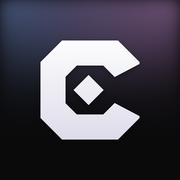
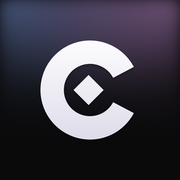
Round C mark, bare C in the landing hero
The mark is now a ring cut open by a wedge (sharp radial ends) instead of
the faceted octagon, drawn at 8x supersampling with a tighter shadow so the
edges stay crisp. The landing hero drops the tile: it paints the new
transparent public/mark.png in the text colour via BrandGlyph. Every brand
file moves to ?v=8.

diff --git a/src/components/__tests__/brandMark.test.tsx b/src/components/__tests__/brandMark.test.tsx
@@ -1,12 +1,12 @@
 // The logo is /logo.png; if it fails to load, BrandLogo draws the same mark inline. Both come from
-// scripts/make-icons.py: the faceted C (outer octagon, inner octagon and right-hand wedge masked out)
-// with the diamond control point inside it.
+// scripts/make-icons.py: the round C (outer circle, inner circle and right-hand wedge masked out)
+// with the diamond control point inside it. /mark.png is the same mark bare, for BrandGlyph.
 import { readdirSync, readFileSync } from 'node:fs';
 import { join } from 'node:path';
 import { fileURLToPath } from 'node:url';
 import { describe, it, expect, afterEach } from 'vitest';
 import { render, screen, fireEvent, cleanup } from '@testing-library/react';
-import { BrandLogo, LOGO_SRC } from '../BrandMark';
+import { BrandGlyph, BrandLogo, LOGO_SRC, MARK_SRC } from '../BrandMark';
 
 afterEach(cleanup);
 
@@ -45,37 +45,47 @@ describe('BrandLogo', () => {
     const files = (readdirSync(root, { recursive: true }) as string[])
       .filter((f) => /\.tsx?$/.test(f) && !/__tests__/.test(f) && !/BrandMark\.tsx$/.test(f));
     // Any mention, versioned or not: an unversioned copy would bypass the cache-buster entirely.
-    const offenders = files.filter((f) => /logo\.png/.test(readFileSync(join(root, f), 'utf8')));
+    const offenders = files.filter((f) => /(logo|mark)\.png/.test(readFileSync(join(root, f), 'utf8')));
     expect(offenders).toEqual([]);
   });
 
-  it('falls back to the faceted C: outer octagon, inner octagon and mouth wedge', () => {
+  it('falls back to the round C: outer circle, inner circle and mouth wedge', () => {
     const mask = renderFallback().querySelector('mask')!;
-    const [outer, inner, mouth] = [...mask.querySelectorAll('polygon')];
-    expect(mask.querySelectorAll('polygon')).toHaveLength(3);
-    expect([outer, inner, mouth].map((p) => points(p).length)).toEqual([8, 8, 3]);
+    const [outer, inner] = [...mask.querySelectorAll('circle')];
+    const mouth = mask.querySelector('polygon')!;
+    expect(mask.querySelectorAll('circle')).toHaveLength(2);
+    expect(mask.querySelectorAll('polygon')).toHaveLength(1);
     expect([outer, inner, mouth].map((p) => p.getAttribute('fill'))).toEqual(['#fff', '#000', '#000']);
-    // The inner octagon sits inside the outer one, so the C has a stroke all round.
-    for (const p of points(inner)) expect(insideConvex(p, points(outer))).toBe(true);
-    // The mouth starts in the bowl and cuts right through the C's whole right-hand side, so it is open.
+    const c = (el: Element) => ['cx', 'cy', 'r'].map((k) => Number(el.getAttribute(k)));
+    const [ox, oy, R] = c(outer), [ix, iy, r] = c(inner);
+    // Concentric, with a real stroke all round.
+    expect([ix, iy]).toEqual([ox, oy]);
+    expect(r).toBeGreaterThan(0);
+    expect(R - r).toBeGreaterThan(R * 0.3);
+    // The mouth starts in the bowl and cuts right through the ring's right-hand side, so it is open.
     const [apex, ...far] = points(mouth);
-    expect(insideConvex(apex, points(inner))).toBe(true);
-    const o = points(outer), right = Math.max(...o.map(([x]) => x));
-    const edge = o.filter(([x]) => x === right).map(([, y]) => y);
-    for (const [x] of far) expect(x).toBeGreaterThanOrEqual(right);
-    expect(Math.min(...far.map(([, y]) => y))).toBeLessThan(Math.min(...edge));
-    expect(Math.max(...far.map(([, y]) => y))).toBeGreaterThan(Math.max(...edge));
+    expect(Math.hypot(apex[0] - ix, apex[1] - iy)).toBeLessThan(r);
+    for (const [x] of far) expect(x).toBeGreaterThanOrEqual(ox + R);
   });
 
   it('puts the diamond control point inside the C', () => {
     const svg = renderFallback();
-    const inner = points(svg.querySelectorAll('mask polygon')[1]);
+    const inner = svg.querySelectorAll('mask circle')[1];
+    const [cx, cy, r] = ['cx', 'cy', 'r'].map((k) => Number(inner.getAttribute(k)));
     const diamond = points(svg.querySelector(':scope > g > polygon')!);
     expect(diamond).toHaveLength(4);
-    // Every corner inside the inner octagon itself (not just its bounding box), so it never touches the stroke.
-    for (const p of diamond) expect(insideConvex(p, inner)).toBe(true);
-    // No round shapes left from the old mark.
-    expect(svg.querySelector('circle, path')).toBeNull();
+    // Every corner inside the bowl, so it never touches the stroke.
+    for (const [x, y] of diamond) expect(Math.hypot(x - cx, y - cy)).toBeLessThan(r);
+  });
+});
+
+describe('BrandGlyph', () => {
+  it('paints the bare mark.png in the text colour, hidden from screen readers', () => {
+    const { container } = render(<BrandGlyph className="size-16" />);
+    const el = container.querySelector('[data-brand-glyph]') as HTMLElement;
+    expect(el.getAttribute('aria-hidden')).toBe('true');
+    expect(el.className).toContain('bg-current');
+    expect(el.style.maskImage || el.style.getPropertyValue('-webkit-mask-image')).toContain(MARK_SRC);
   });
 });
 
@@ -97,8 +107,9 @@ describe('brand cache-busters', () => {
     iconVersion();
   });
 
-  it('serves the in-app logo at the same version', () => {
+  it('serves the in-app logo and the bare mark at the same version', () => {
     expect(LOGO_SRC).toBe(`/logo.png?v=${iconVersion()}`);
+    expect(MARK_SRC).toBe(`/mark.png?v=${iconVersion()}`);
   });
 
   const pages = ['../../../index.html', '../../../server/predict/how-it-works.html'];

diff --git a/src/components/BrandMark.tsx b/src/components/BrandMark.tsx
@@ -2,13 +2,15 @@ import { useId, useState } from 'react';
 import { cn } from './ui';
 
 /** The logo's URL. Bump the version whenever scripts/make-icons.py changes the mark; every logo <img> uses this. */
-export const LOGO_SRC = '/logo.png?v=7';
+export const LOGO_SRC = '/logo.png?v=8';
+/** The bare mark (white on transparent, no tile), same version as the logo. */
+export const MARK_SRC = '/mark.png?v=8';
 
 /**
  * BrandMark — the Control Point logo slot.
  *
- * The logo is `public/logo.png` (Control Scout's v8 icon family: a faceted,
- * sharp-cornered "C" with the control point, a diamond, inside it; soft white on
+ * The logo is `public/logo.png` (Control Scout's v8 icon family: a round "C" cut
+ * open by a crisp wedge, with the control point, a diamond, inside it; soft white on
  * the near-black tile with the slate-to-mauve wash; drawn by scripts/make-icons.py).
  * If it fails to load, the same mark renders inline as SVG.
  *
@@ -31,9 +33,9 @@ export function BetaBadge({ className }: { className?: string }) {
   );
 }
 
-/** The mark alone (the faceted C and its diamond point) filling its box, in the icon's soft-white ink.
- *  Polygons from scripts/make-icons.py (mark_polys), scaled to the 100-unit box: the C is the outer
- *  octagon with the inner octagon and the right-hand wedge masked out. */
+/** The mark alone (the round C and its diamond point) filling its box, in the icon's soft-white ink.
+ *  Shapes from scripts/make-icons.py (mark_shapes), scaled to the 100-unit box: the C is the outer
+ *  circle with the inner circle and the right-hand wedge masked out. */
 function MarkSvg() {
   const id = useId().replace(/:/g, '');
   const ink = `cp-ink-${id}`, cut = `cp-cut-${id}`;
@@ -45,8 +47,8 @@ function MarkSvg() {
           <stop offset="1" stopColor="#dcd9e8" />
         </linearGradient>
         <mask id={cut} maskUnits="userSpaceOnUse" x="0" y="0" width="100" height="100">
-          <polygon points="34.45,22.49 65.55,22.49 77.51,34.45 77.51,65.55 65.55,77.51 34.45,77.51 22.49,65.55 22.49,34.45" fill="#fff" />
-          <polygon points="42.66,36.44 57.34,36.44 63.56,42.66 63.56,57.34 57.34,63.56 42.66,63.56 36.44,57.34 36.44,42.66" fill="#000" />
+          <circle cx="50" cy="50" r="27.51" fill="#fff" />
+          <circle cx="50" cy="50" r="14.51" fill="#000" />
           <polygon points="50,50 100,23.68 100,76.32" fill="#000" />
         </mask>
       </defs>
@@ -83,6 +85,20 @@ function LogoImage({ className, decorative = false }: { className?: string; deco
       alt={decorative ? '' : 'Control Point logo'}
       onError={() => setMissing(true)}
       className={cn('object-contain flex-shrink-0', className)}
+    />
+  );
+}
+
+/** The bare C (public/mark.png, no tile), painted in the current text colour through a CSS mask
+ *  so it reads in both themes. Decorative: callers put it next to the name. */
+export function BrandGlyph({ className }: { className?: string }) {
+  const url = `url(${MARK_SRC})`;
+  return (
+    <span
+      aria-hidden="true"
+      data-brand-glyph=""
+      className={cn('inline-block flex-shrink-0 bg-current', className)}
+      style={{ maskImage: url, WebkitMaskImage: url, maskSize: 'contain', WebkitMaskSize: 'contain', maskRepeat: 'no-repeat', WebkitMaskRepeat: 'no-repeat', maskPosition: 'center', WebkitMaskPosition: 'center' }}
     />
   );
 }

diff --git a/index.html b/index.html
@@ -5,7 +5,7 @@
     <meta name="viewport" content="width=device-width, initial-scale=1.0" />
     <title>Control Point — AI-powered mission control for your robotics team</title>
     <meta name="description" content="Control Point is AI-powered mission control for your robotics team: roster, attendance, tasks, calendar, budget, and team chat — one fast, focused workspace that keeps your whole season on track." />
-    <link rel="icon" type="image/png" href="/favicon.png?v=7">
+    <link rel="icon" type="image/png" href="/favicon.png?v=8">
     <!-- Link embeds: Discord, iMessage, Twitter/X, etc. -->
     <meta property="og:type" content="website" />
     <meta property="og:site_name" content="Control Point" />
@@ -13,18 +13,18 @@
     <meta property="og:description" content="Roster, attendance, tasks, calendar, budget, and team chat — one fast, focused workspace that keeps your whole season on track." />
     <meta property="og:url" content="https://tryctrlpoint.org/" />
     <link rel="canonical" href="https://tryctrlpoint.org/" />
-    <meta property="og:image" content="https://tryctrlpoint.org/og-image.jpg?v=7" />
+    <meta property="og:image" content="https://tryctrlpoint.org/og-image.jpg?v=8" />
     <meta property="og:image:width" content="1200" />
     <meta property="og:image:height" content="630" />
     <meta property="og:image:alt" content="Control Point — AI-powered mission control for your robotics team" />
     <meta name="twitter:card" content="summary_large_image" />
     <meta name="twitter:title" content="Control Point — AI-powered mission control for your robotics team" />
     <meta name="twitter:description" content="Roster, attendance, tasks, calendar, budget, and team chat — one fast, focused workspace that keeps your whole season on track." />
-    <meta name="twitter:image" content="https://tryctrlpoint.org/og-image.jpg?v=7" />
+    <meta name="twitter:image" content="https://tryctrlpoint.org/og-image.jpg?v=8" />
     <meta name="theme-color" content="#0a0a0b" />
     <!-- PWA: installable from the browser, no app store needed -->
-    <link rel="manifest" href="/manifest.webmanifest?v=7" />
-    <link rel="apple-touch-icon" sizes="180x180" href="/apple-touch-icon.png?v=7" />
+    <link rel="manifest" href="/manifest.webmanifest?v=8" />
+    <link rel="apple-touch-icon" sizes="180x180" href="/apple-touch-icon.png?v=8" />
     <meta name="mobile-web-app-capable" content="yes" />
     <meta name="apple-mobile-web-app-capable" content="yes" />
     <meta name="apple-mobile-web-app-status-bar-style" content="black-translucent" />

diff --git a/server/predict/how-it-works.html b/server/predict/how-it-works.html
@@ -7,7 +7,7 @@
 <meta name="description" content="How Control Point Predict rates FTC robots, predicts matches, simulates whole events and estimates advancement odds, with the real accuracy numbers.">
 <meta property="og:title" content="How Control Point Predict Works">
 <meta property="og:description" content="Robot ratings, match odds, event simulation and how accurate it all is, explained with real FTC data.">
-<meta property="og:image" content="https://tryctrlpoint.org/og-image.jpg?v=7">
+<meta property="og:image" content="https://tryctrlpoint.org/og-image.jpg?v=8">
 <meta property="og:image:width" content="1200">
 <meta property="og:image:height" content="630">
 <meta property="og:url" content="https://tryctrlpoint.org/predict/how-it-works">
@@ -16,12 +16,12 @@
 <meta name="twitter:card" content="summary_large_image">
 <meta name="twitter:title" content="How Control Point Predict Works">
 <meta name="twitter:description" content="Robot ratings, match odds, event simulation and how accurate it all is, explained with real FTC data.">
-<meta name="twitter:image" content="https://tryctrlpoint.org/og-image.jpg?v=7">
+<meta name="twitter:image" content="https://tryctrlpoint.org/og-image.jpg?v=8">
 <meta property="og:type" content="article">
 <meta name="theme-color" content="#0f1116">
-<link rel="icon" type="image/png" href="/favicon.png?v=7">
-<link rel="apple-touch-icon" sizes="180x180" href="/apple-touch-icon.png?v=7">
-<link rel="manifest" href="/manifest.webmanifest?v=7">
+<link rel="icon" type="image/png" href="/favicon.png?v=8">
+<link rel="apple-touch-icon" sizes="180x180" href="/apple-touch-icon.png?v=8">
+<link rel="manifest" href="/manifest.webmanifest?v=8">
 <link rel="preconnect" href="https://fonts.googleapis.com">
 <link rel="preconnect" href="https://fonts.gstatic.com" crossorigin>
 <link rel="stylesheet" href="https://fonts.googleapis.com/css2?family=Archivo:wdth,wght@62..125,500..900&family=Source+Serif+4:ital,opsz,wght@0,8..60,400;0,8..60,600;1,8..60,400&family=IBM+Plex+Mono:wght@400;600&display=swap">

diff --git a/src/modern/pages/auth/ModernLanding.tsx b/src/modern/pages/auth/ModernLanding.tsx
@@ -11,7 +11,7 @@ import { cn } from '../../../components/cn';
 import {
   Accordion, AccordionContent, AccordionItem, AccordionTrigger, Button,
 } from '../../../components/ui-kit';
-import { BrandLogo } from '../../../components/BrandMark';
+import { BrandGlyph, BrandLogo } from '../../../components/BrandMark';
 import { CONTACT_EMAIL } from '../../../utils/contact';
 import { SignedOutModern } from '../../signedOut';
 import { LandingWash } from './landing/LandingWash';
@@ -101,7 +101,7 @@ export function ModernLanding({ onSignIn, onGetStarted }: { onSignIn: () => void
           <section className="px-4 pb-28 pt-20 sm:px-6 sm:pb-44 sm:pt-28" aria-labelledby="landing-title">
             <div className="mx-auto flex max-w-3xl flex-col items-center text-center">
               <HeroIn step={0}>
-                <BrandLogo className="size-16 rounded-2xl ring-1 ring-ink/12 sm:size-[72px]" decorative />
+                <BrandGlyph className="size-14 text-foreground sm:size-16" />
               </HeroIn>
               <HeroIn step={1}>
                 <h1 id="landing-title" className="mt-8 text-balance font-sans text-[2.5rem] font-semibold leading-[1.05] tracking-[-0.035em] sm:text-6xl lg:text-[4.25rem]">

diff --git a/scripts/make-icons.py b/scripts/make-icons.py
@@ -6,8 +6,8 @@ so a re-run with no code change leaves every file byte-identical.
 The tile is a sibling of Control Scout's v8 icon (control-scout scripts/brand-icon.mjs):
 the same near-black tile with the same wash of three glows along the top edge, the
 same fine grain, and the mark in the same soft white with a soft shadow. The mark is
-Control Point's own: a faceted C, all sharp corners, with the control point (a diamond)
-inside it, so it does not read as Scout's round C with its needle.
+Control Point's own: a round C cut open by a crisp wedge (sharp, radial ends), with the
+control point (a diamond) inside it, so it does not read as Scout's C with its needle.
 
 Geometry is in units of 1/1254 of the tile's width (the master's size).
 
@@ -17,6 +17,7 @@ Writes:
   icon-192.png, icon-512.png   full-bleed (the installed app, purpose "any")
   icon-maskable-512.png  512  full-bleed, mark at 78% inside Android's safe zone
   logo.png               512  full-bleed, opaque (in-app logo; CSS rounds the corners)
+  mark.png               512  the bare mark, white on transparent, filling the box (landing hero)
   og-image.jpg           1200x630 link-preview card
 """
 from __future__ import annotations
@@ -39,42 +40,43 @@ GRAIN = 0.07
 MASTER = 1254  # the master's size, as Scout's, so the grain has the same scale
 SEED = 8
 
-# The mark: a faceted C (an octagon with a stroke cut out, opened on the right by a wedge
-# from the centre) with the control point, a diamond, in the middle. Sharp corners
-# throughout, so it reads apart from Scout's round C. Units: 1/1254 of the tile.
+# The mark: a round C (a ring, opened on the right by a wedge from the centre, so its ends
+# are sharp radial cuts) with the control point, a diamond, in the middle.
+# Units: 1/1254 of the tile.
 U = 1 / 1254
 CX = CY = 627
-OUTER = (345, 150)  # half-size, corner chamfer
-INNER = (170, 78)
+OUTER = 345  # ring radii
+INNER = 182
 MOUTH = 330  # the wedge's half-height at the tile's right edge
 POINT = (617, 627, 105)  # diamond centre x, y, half-diagonal
 
 
-def octagon(h: float, k: float) -> list[tuple[float, float]]:
-    c = CX
-    return [(c - h + k, c - h), (c + h - k, c - h), (c + h, c - h + k), (c + h, c + h - k),
-            (c + h - k, c + h), (c - h + k, c + h), (c - h, c + h - k), (c - h, c - h + k)]
-
-
-def mark_polys() -> list[tuple[list[tuple[float, float]], int]]:
-    """The mark as polygons in tile units (0..1254), painted in order: 255 adds, 0 cuts."""
+def mark_shapes() -> list[tuple[str, object, int]]:
+    """The mark in tile units (0..1254), painted in order: 255 adds, 0 cuts.
+    ("circle", radius) is centred on the tile; ("poly", points) is a polygon."""
     px, py, pr = POINT
     return [
-        (octagon(*OUTER), 255),
-        (octagon(*INNER), 0),
-        ([(CX, CY), (1254, CY - MOUTH), (1254, CY + MOUTH)], 0),
-        ([(px, py - pr), (px + pr, py), (px, py + pr), (px - pr, py)], 255),
+        ("circle", OUTER, 255),
+        ("circle", INNER, 0),
+        ("poly", [(CX, CY), (1254, CY - MOUTH), (1254, CY + MOUTH)], 0),
+        ("poly", [(px, py - pr), (px + pr, py), (px, py + pr), (px - pr, py)], 255),
     ]
 
 
-def mark_mask(size: int, scale: float = 1.0, ss: int = 4) -> np.ndarray:
-    """The mark's coverage (0..1) on a size x size tile, drawn at ss x and box-filtered down."""
+def mark_mask(size: int, scale: float = 1.0, ss: int = 8) -> np.ndarray:
+    """The mark's coverage (0..1) on a size x size tile, drawn at ss x and box-filtered down
+    (8x, so the round edges stay crisp and the cut ends stay sharp)."""
     S = size * ss
     im = Image.new("L", (S, S), 0)
     d = ImageDraw.Draw(im)
     o = (1 - scale) / 2
-    for pts, fill in mark_polys():
-        d.polygon([((o + x * U * scale) * S, (o + y * U * scale) * S) for x, y in pts], fill=fill)
+    pt = lambda x, y: ((o + x * U * scale) * S, (o + y * U * scale) * S)
+    for kind, geo, fill in mark_shapes():
+        if kind == "circle":
+            (x0, y0), (x1, y1) = pt(CX - geo, CY - geo), pt(CX + geo, CY + geo)
+            d.ellipse([x0, y0, x1, y1], fill=fill)
+        else:
+            d.polygon([pt(x, y) for x, y in geo], fill=fill)
     im = im.resize((size, size), Image.BOX)
     return np.asarray(im, dtype=np.float32) / 255
 
@@ -130,17 +132,27 @@ def tile(size: int, scale: float = 1.0) -> Image.Image:
     noise = np.random.default_rng(SEED).random((N, N), dtype=np.float32)[..., None]
     ov = np.where(img < 0.5, 2 * img * noise, 1 - 2 * (1 - img) * (1 - noise))
     img = img * (1 - GRAIN) + ov * GRAIN
-    # The mark: soft white (white at 18% to a faint lavender grey at 82%), with a soft
-    # shadow (black 35%, blur 3% of the size, 1% down).
+    # The mark: soft white (white at 18% to a faint lavender grey at 82%), with a tight
+    # shadow (black 30%, blur 1.6% of the size, 0.8% down) so the edges stay crisp.
     m = mark_mask(N, scale)
-    shadow = blur(m, N * 0.03 / 2)
-    dy = int(round(N * 0.01))
-    shadow = np.vstack([np.zeros((dy, N), np.float32), shadow[: N - dy]]) * 0.35
+    shadow = blur(m, N * 0.016 / 2)
+    dy = int(round(N * 0.008))
+    shadow = np.vstack([np.zeros((dy, N), np.float32), shadow[: N - dy]]) * 0.30
     img = over(img, np.zeros(3, np.float32), shadow)
     t = np.clip((yy[..., None] / N - 0.18) / (0.82 - 0.18), 0, 1)
     ink = (np.array(INK_TOP, np.float32) * (1 - t) + np.array(INK_BOTTOM, np.float32) * t) / 255
     img = over(img, ink, m)
     return Image.fromarray(np.clip(np.round(img * 255), 0, 255).astype(np.uint8), "RGB")
+
+
+def bare_mark(size: int) -> Image.Image:
+    """The mark alone, white on transparent, scaled so the C fills the box (a 2% margin)."""
+    scale = 1254 / (2 * OUTER) * 0.96
+    a = mark_mask(size, scale)
+    rgba = np.zeros((size, size, 4), np.uint8)
+    rgba[..., :3] = 255
+    rgba[..., 3] = np.clip(np.round(a * 255), 0, 255).astype(np.uint8)
+    return Image.fromarray(rgba, "RGBA")
 
 
 def down(im: Image.Image, size: int) -> Image.Image:
@@ -217,6 +229,7 @@ def main() -> None:
     down(master, 192).save(OUT / "icon-192.png", optimize=True)
     down(master, 512).save(OUT / "icon-512.png", optimize=True)
     down(master, 512).save(OUT / "logo.png", optimize=True)
+    bare_mark(512).save(OUT / "mark.png", optimize=True)
     down(maskable, 512).save(OUT / "icon-maskable-512.png", optimize=True)
     og_image(master).save(OUT / "og-image.jpg", quality=90, optimize=True, progressive=True)
     print("ok")

diff --git a/public/BRAND.md b/public/BRAND.md
@@ -1,9 +1,9 @@
 # Brand logo
 
-The logo is a faceted "C" (an octagon with sharp, chamfered corners, open on the
-right) with the control point, a diamond, inside it, in soft white on a near-black
+The logo is a round "C" (a ring cut open on the right by a wedge, so its ends are
+crisp radial cuts) with the control point, a diamond, inside it, in soft white on a near-black
 tile with a wash of colour across the top. It shares Control Scout's v8 tile, wash,
-grain and ink, but the mark is its own: sharp where Scout's C is round.
+grain and ink, but the mark is its own: a diamond point where Scout has a needle.
 
 - Graphite background: `#0a0a0b`
 - Ink: white `#ffffff` at the top to `#dcd9e8` at the bottom, with a soft shadow
@@ -20,6 +20,7 @@ needs Pillow and numpy). The output is deterministic: the grain uses a seeded RN
 | File | Use |
 | --- | --- |
 | `logo.png` (512, full bleed) | In-app logo via `src/components/BrandMark.tsx`; CSS rounds the corners |
+| `mark.png` (512, transparent) | The bare C, no tile: the landing hero paints it in the text colour via `BrandGlyph` |
 | `icon-512.png`, `icon-192.png` | Installed app icons (purpose "any"), full bleed like Control Scout's |
 | `favicon.png` (64) | Browser tab icon, full bleed |
 | `icon-maskable-512.png` | Full bleed, mark at 78% inside the maskable safe zone |
@@ -38,5 +39,5 @@ is drawn here.
 
 Replace the files above, then bump the `?v=` query on every reference
 (`index.html`, `public/manifest.webmanifest`, `server/predict/how-it-works.html`,
-`BrandMark.tsx`, `ModernShell.tsx`) so browsers and installed PWAs refetch.
+`BrandMark.tsx` for both `LOGO_SRC` and `MARK_SRC`) so browsers and installed PWAs refetch.
 The wordmark ("Control Point") and the BETA badge are rendered in code.
